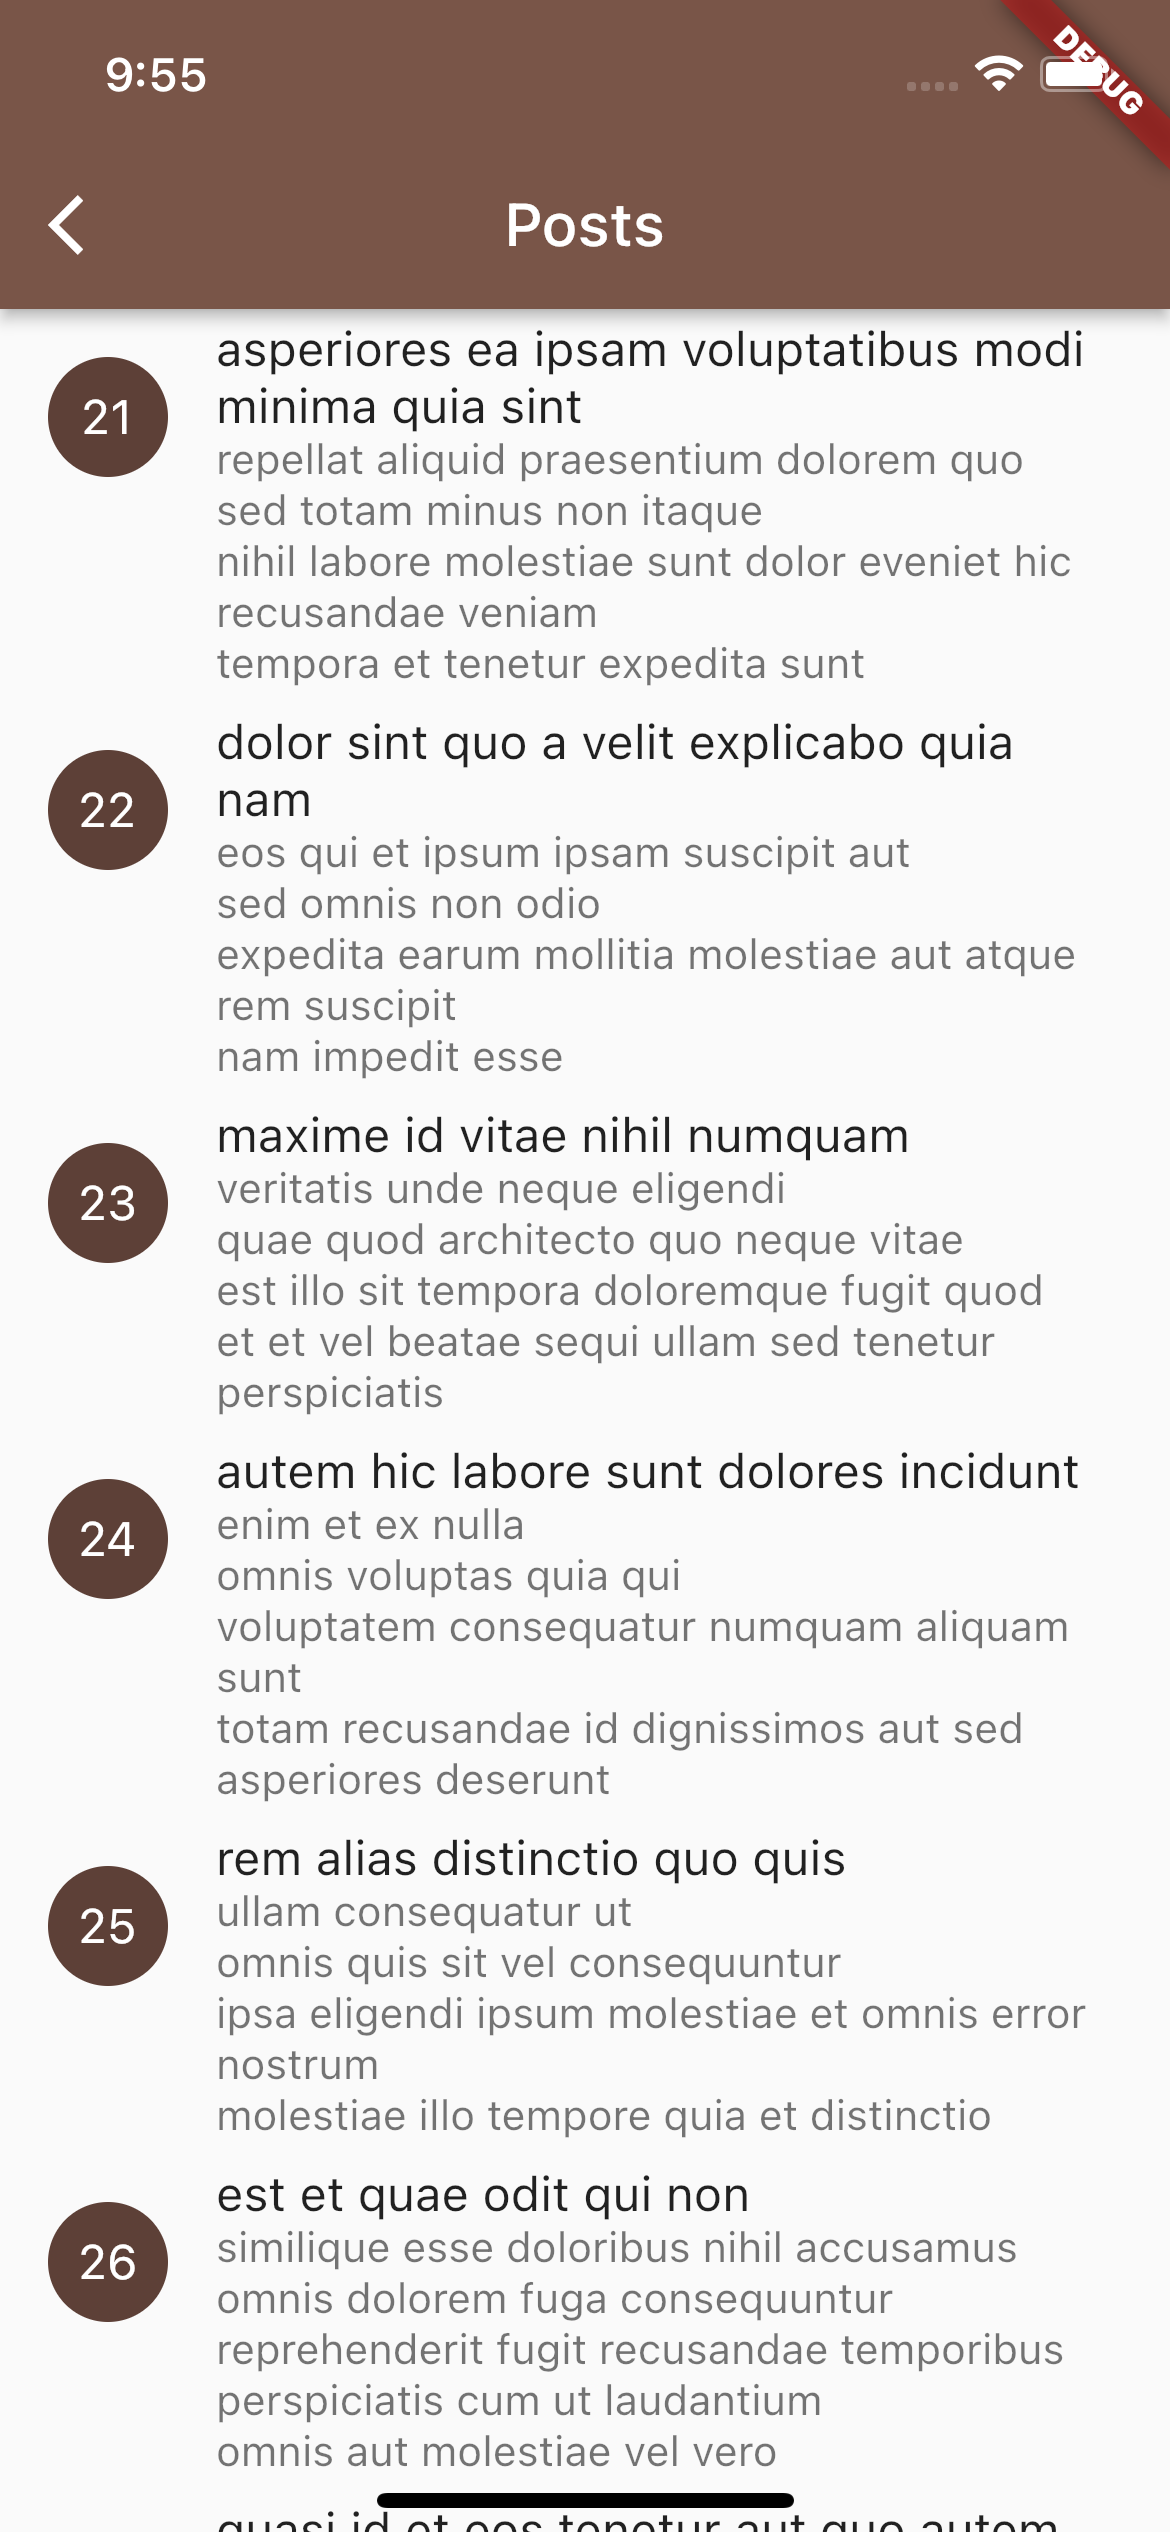
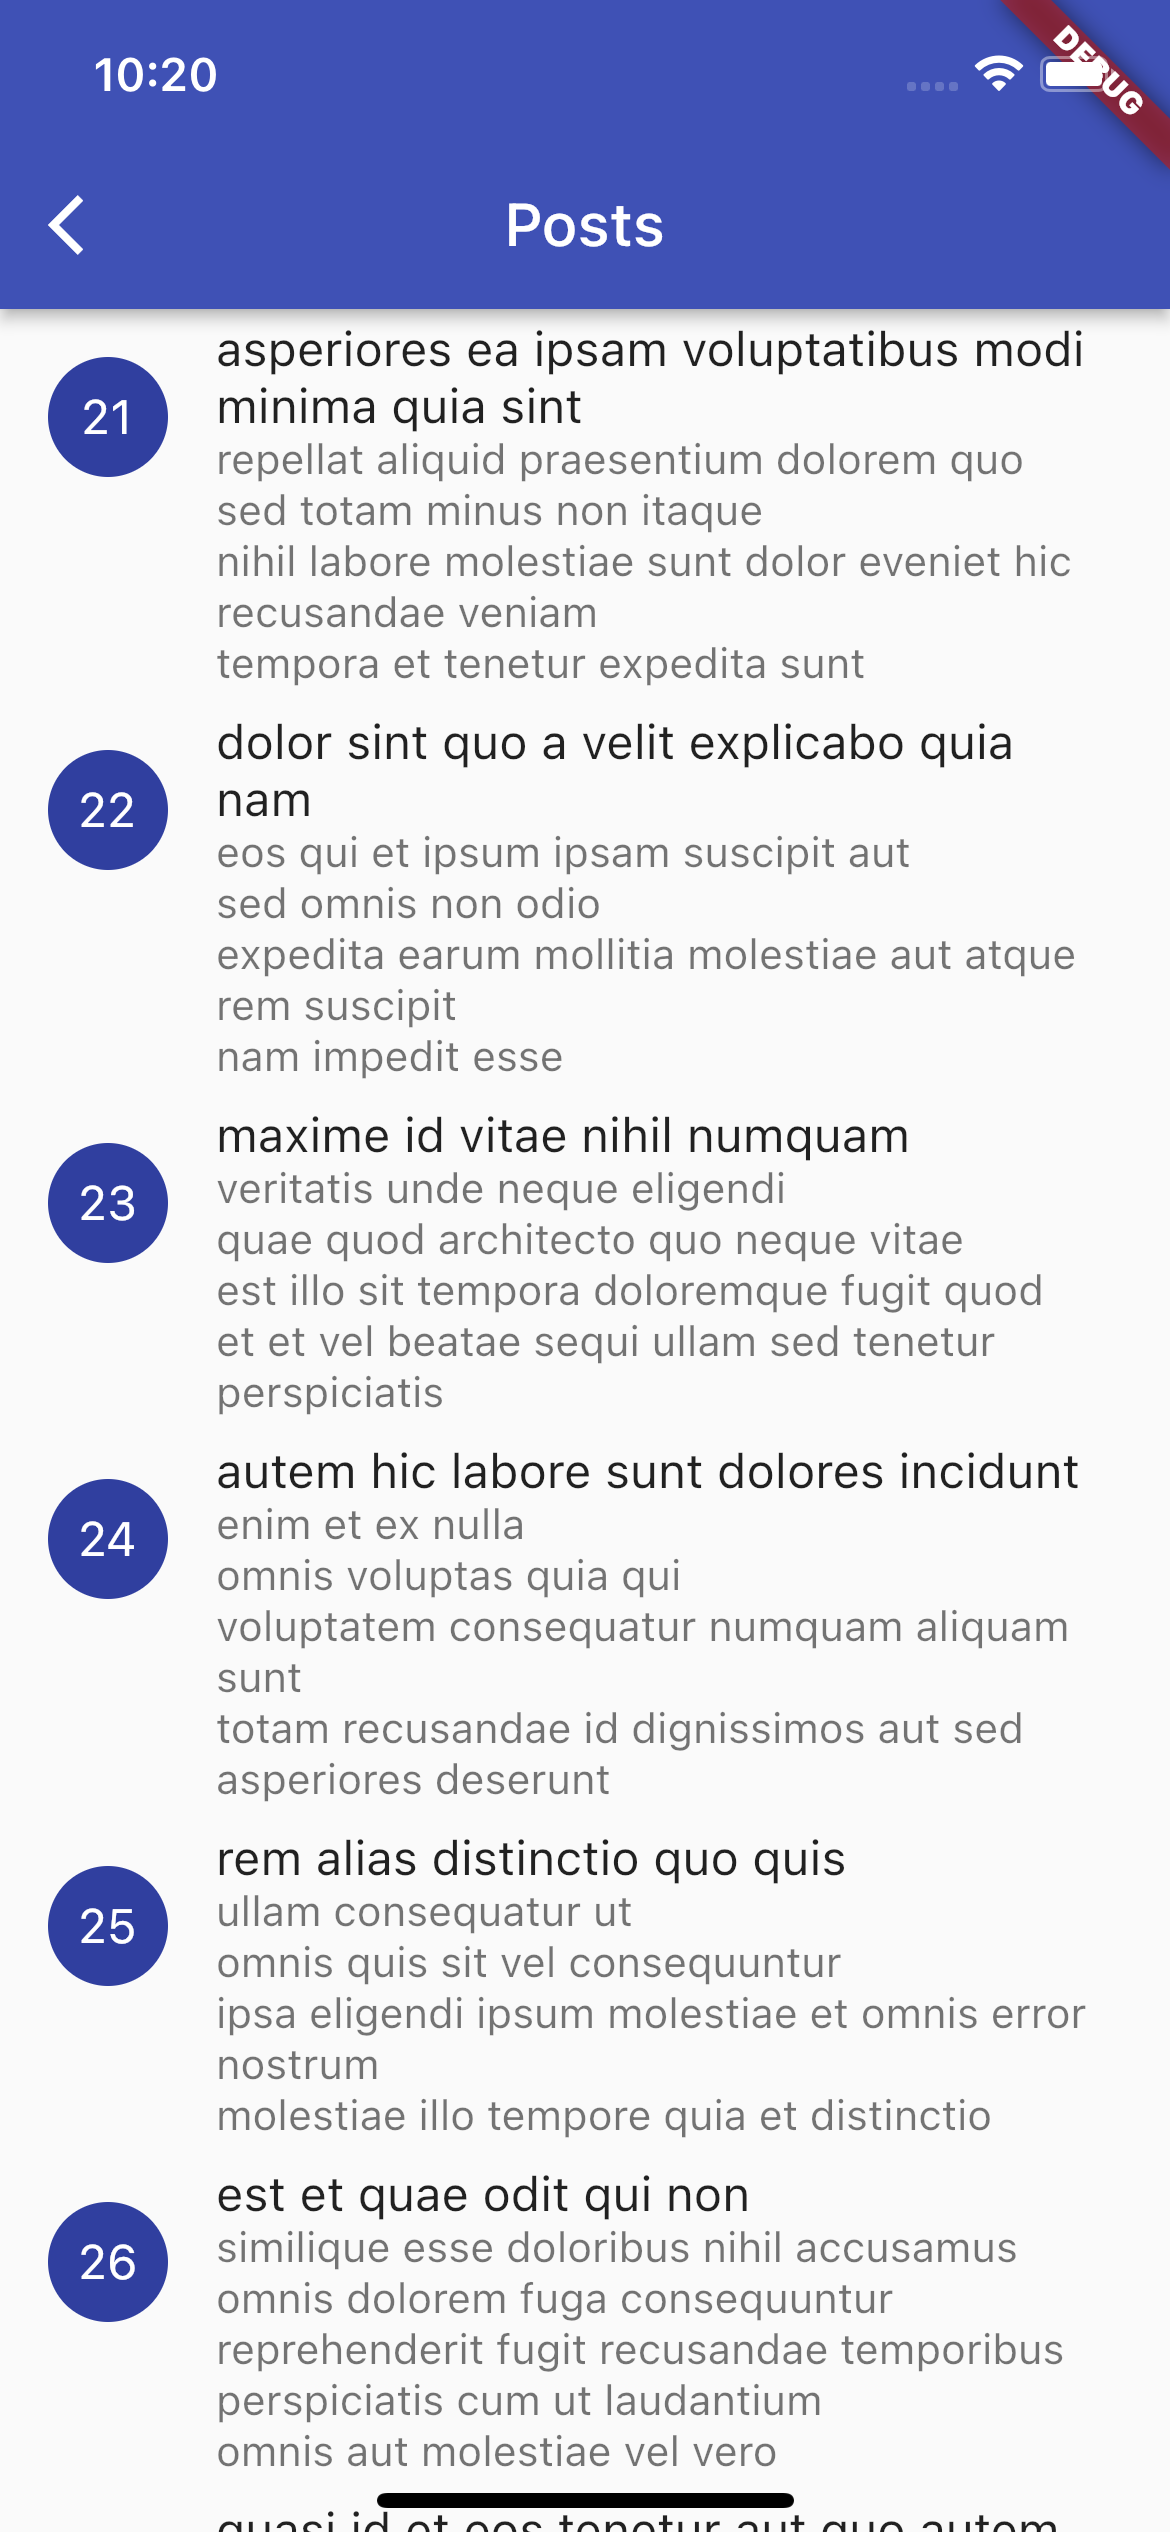
changed

diff --git a/lib/main.dart b/lib/main.dart
@@ -18,7 +18,7 @@ class MyApp extends StatelessWidget {
     return MaterialApp(
       title: 'Flutter Demo',
       theme: ThemeData(
-        primarySwatch: Colors.brown,
+        primarySwatch: Colors.indigo,
       ),
       home: const UsersPage(),
       onGenerateRoute: AppRouter.onGenerateRoute,
